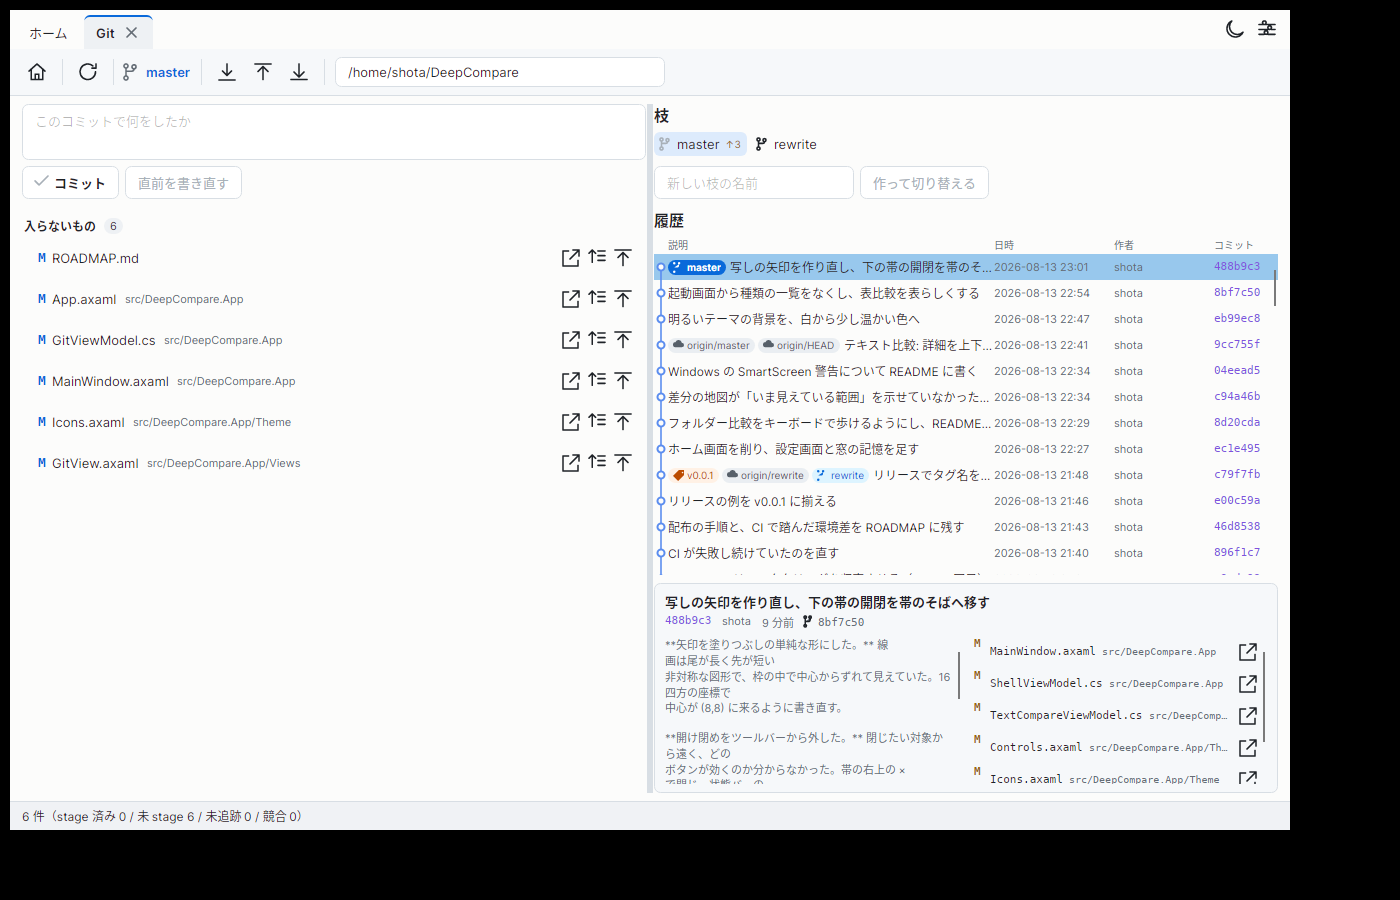
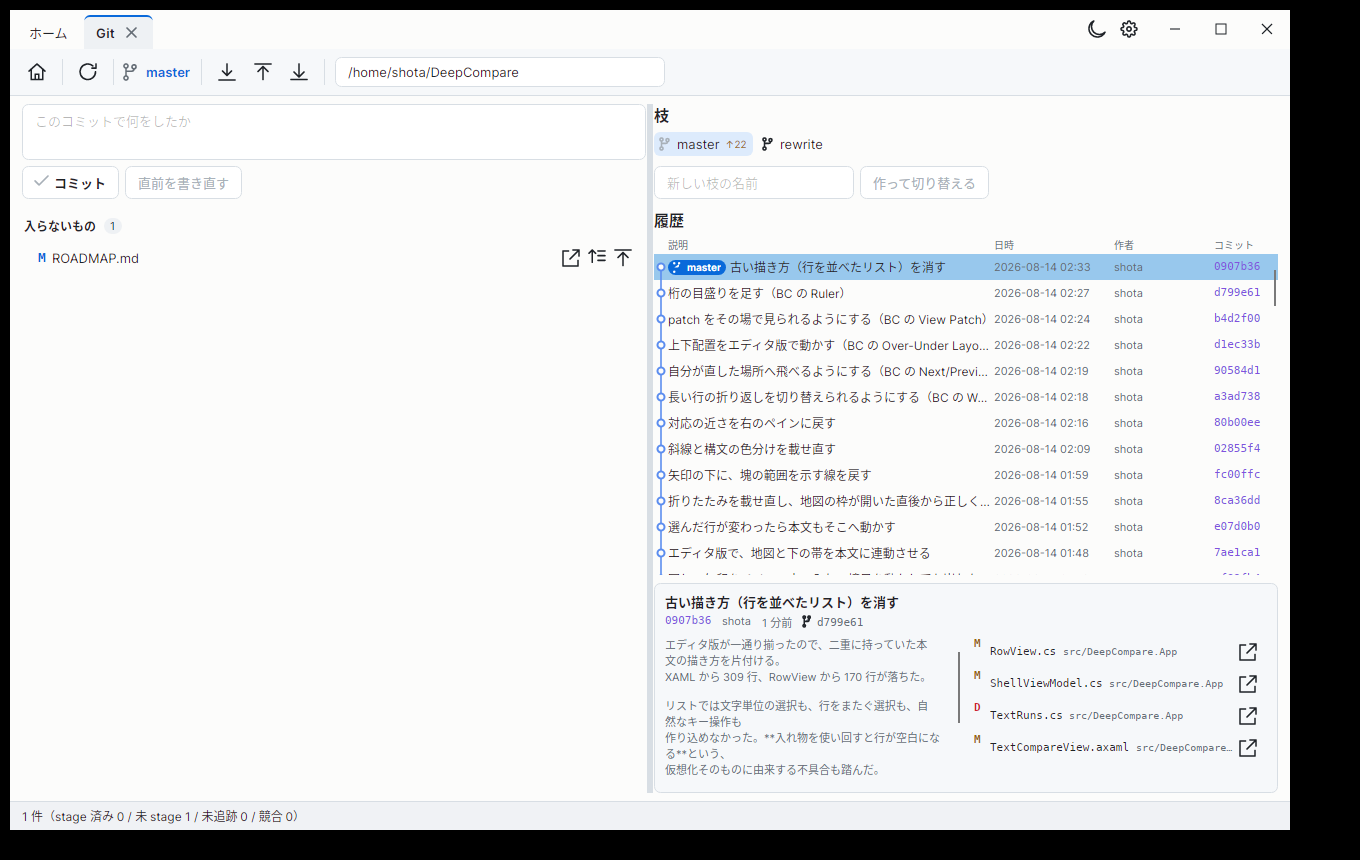
README とスクリーンショットを今の姿に合わせ、ROADMAP に載せ替えの記録を残す
エディタ載せ替えで何が変わったか（そのまま直せること、直した場所への移動、
折り返し、桁の目盛り）を README に書き足した。

ROADMAP には、載せ替えで踏んだ罠を表にして残した。**動くものを作るより、
落としたものに気づく方が難しい** — 矢印・折りたたみ・斜線・構文の色分け・
類似度・上下配置を、1 つずつ拾い直すことになった。

AOT 発行が AvaloniaEdit 込みで通ることを確認（35MB、起動も確認済み）。

diff --git a/ROADMAP.md b/ROADMAP.md
@@ -121,6 +121,35 @@ Windows で使ってもらい、出てきた指摘をそのまま直した記録
 **教訓**: 画面の不具合は、仮想画面で撮って目で見るまで見つからない。
 ビルドが通っても起動しないもの（スタイルの二重定義）もあった。
 
+### 本文をエディタ部品へ載せ替えた（v0.0.3）
+
+行を並べたリストとして描いていたが、**文字単位の選択も、行をまたぐ選択も、
+自然なキー操作も作り込めなかった。** 「Ctrl+A で全部選んで消す」「貼り替える」
+が行単位でしかできず、使う人の手が止まる。AvaloniaEdit（VS Code と同じ系統の
+部品）へ差し替えた。
+
+**差分の色は自前で重ねる。** 地を塗る仕掛け（IBackgroundRenderer）と、
+文字を染める仕掛け（DocumentColorizingTransformer）を差し込む。本文そのものには
+手を入れない。
+
+**左右で行数を揃えた本文を流す。** 片側にしか無い行の位置には詰め物の空行を
+入れる。そうしないと同じ内容の行が上下にずれて並び、目で追えない。行番号は
+素性から描き、詰め物には番号を振らない。保存するときは詰め物を取り除く。
+
+踏んだ罠:
+
+| 症状 | 原因 |
+|---|---|
+| 画面が丸ごと空になる（例外も出ない） | `AvaloniaXamlLoader.Load` を直に呼ぶと `x:Name` のフィールドが埋まらない。生成される `InitializeComponent` を呼ぶ |
+| 部品の生成ごと落ちる | エディタは「$Default」という名前で既定のフォントを引く。名前を決めていないと解決に失敗する |
+| 左右の位置が揃わない | `TextView.ScrollOffset` は読むだけの値。代入しても動かない |
+| 中央の境目を動かすと崩れる | 境目の隣が「矢印の列」だと、境目が矢印を広げてしまう。矢印はペインの中へ |
+| 塊を写すたびに先頭へ跳ぶ | 差し替えた直後は新しい本文の高さがまだ決まっていない。行が組み直された後に戻す |
+
+**載せ替えで落ちたものを 1 つずつ拾い直した。** 写しの矢印、塊の範囲を示す線、
+折りたたみ、地図の連動、下の帯の連動、斜線、構文の色分け、類似度の数値、
+上下配置。**動くものを作るより、落としたものに気づく方が難しい。**
+
 ### 決まったこと（2026-08-13）
 
 1. **リモート／クラウドは要る**（3.1）。SFTP・FTP・WebDAV・S3。

diff --git a/README.md b/README.md
@@ -114,6 +114,16 @@ Windows と Linux で動く。
 `Ctrl+F` で検索、`Ctrl+H` で置換、`Esc` で閉じる。
 **置換しても読み取り専用の側は触らず、取り消しで戻せる。**
 
+### そのまま直せる
+
+本文はエディタそのものなので、**普通のテキストエディタと同じように書ける。**
+文字単位でも、行をまたいでも選べる。`Ctrl+A` で全部選んで貼り替えることもできる。
+
+直している間も差分の色は消えない。直した行には脇に印が付き、
+`Ctrl+Alt+↓` / `Ctrl+Alt+↑` でその場所を行き来できる。
+
+矢印を押すと、その塊をまとめて反対側へ写す。線が伸びている範囲が写る範囲。
+
 フォルダー比較では:
 
 | キー | すること |
@@ -122,6 +132,9 @@ Windows と Linux で動く。
 | `→` | フォルダーを開く / 中へ入る |
 | `←` | フォルダーを閉じる / 親へ戻る |
 | `Enter` | 新しいタブで比べる |
+
+長い行は折り返せる（ツールバーの折り返しボタン）。桁の目盛りは設定から出す
+— 固定長のデータで、どの桁がずれたのかを数えたいときに。
 
 ### Git
 
